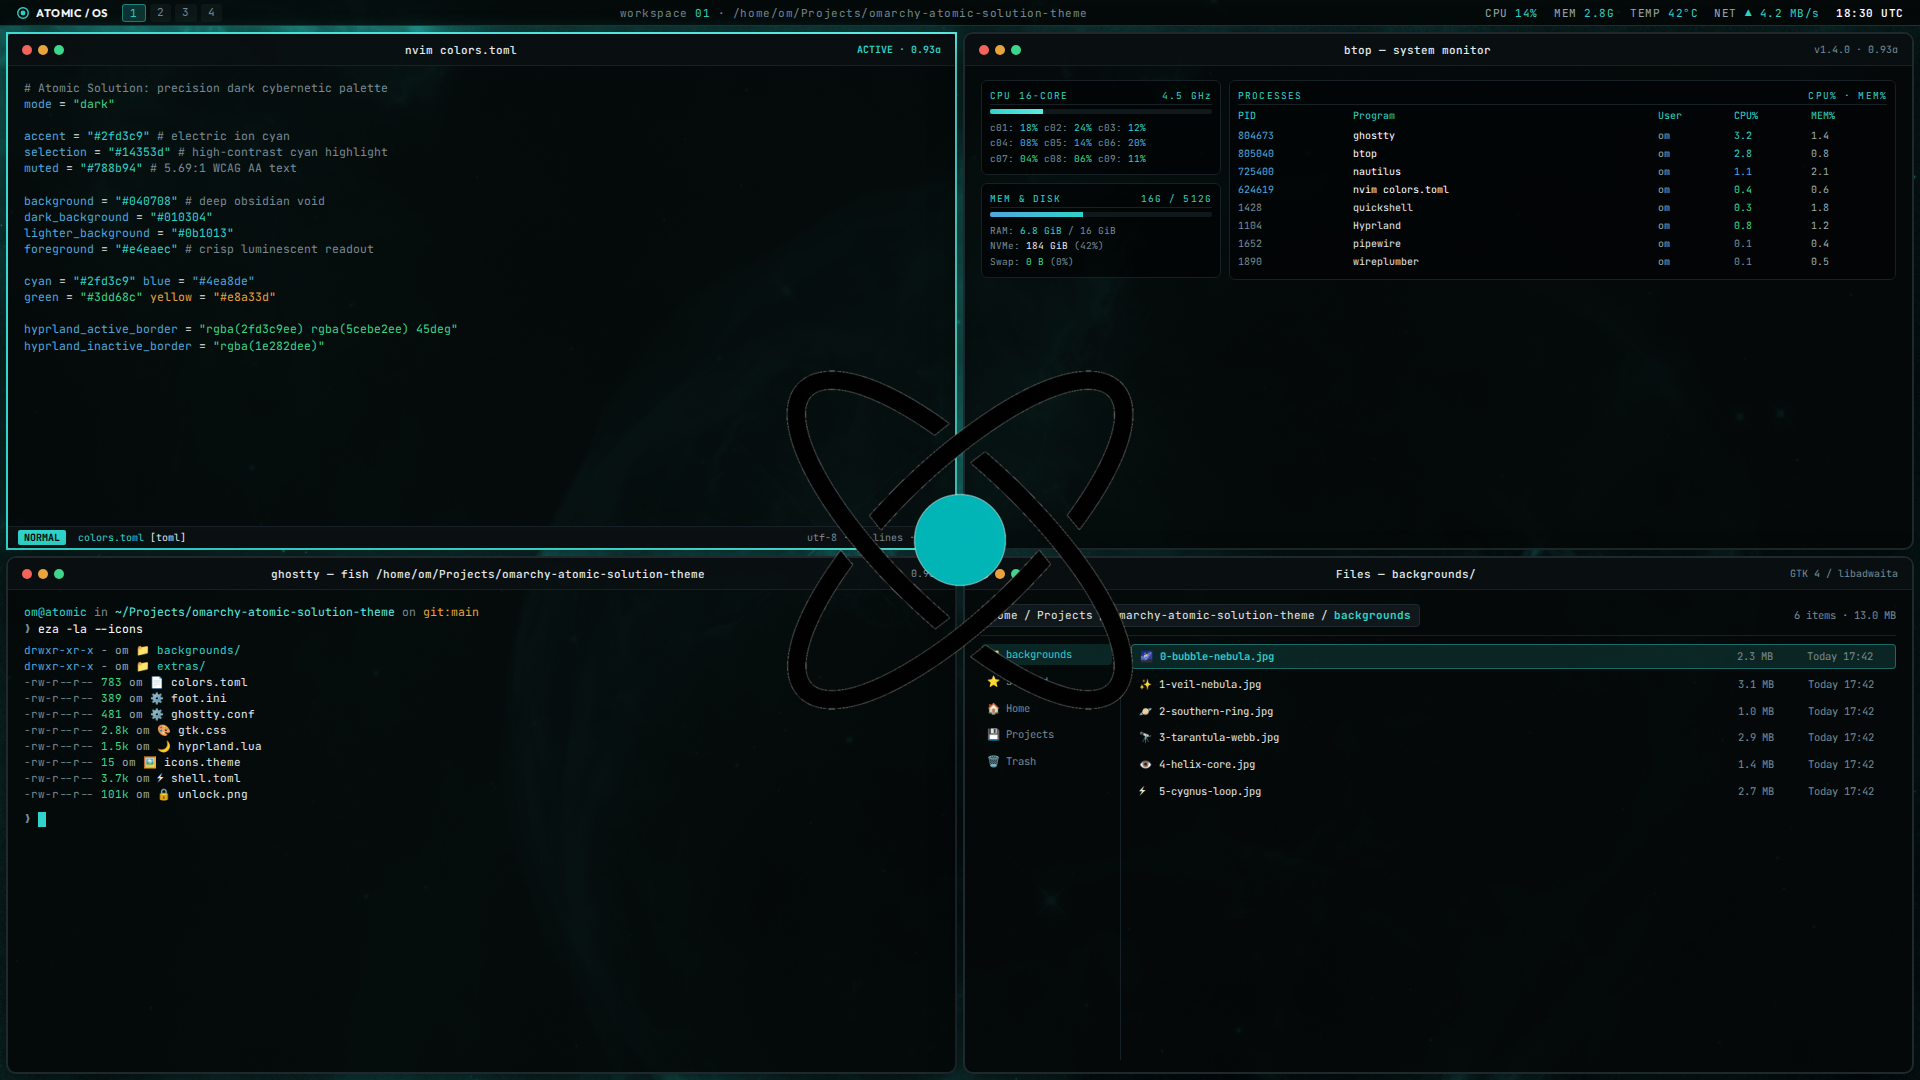
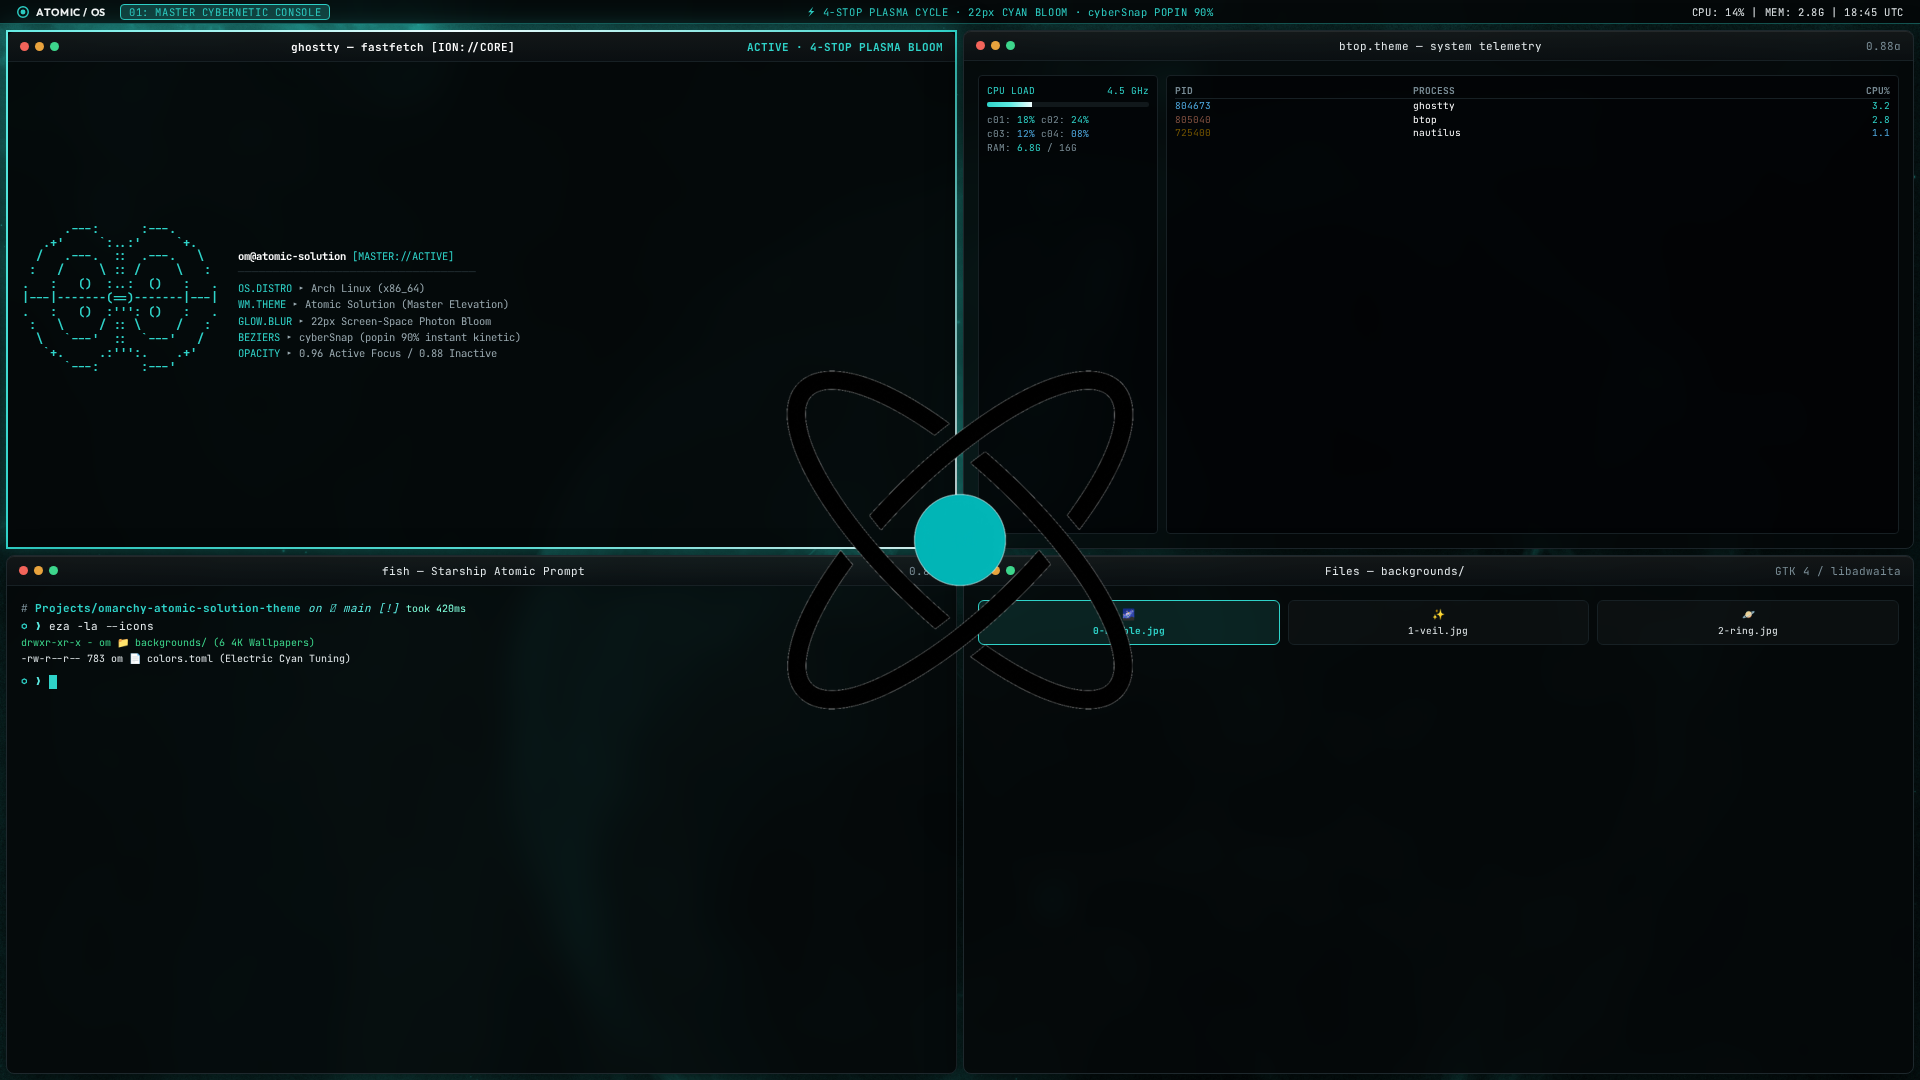
feat(v2): initial commit for Atomic Solution v2 (Kinetic Hologram Console)

diff --git a/README.md b/README.md
@@ -1,84 +1,50 @@
-# Atomic Solution Theme for Omarchy
+# Atomic Solution v2 (Kinetic Hologram Console) Theme for Omarchy
 
-A precision dark cybernetic [Omarchy](https://omarchy.org) theme built from and inspired by the [Atomic Solution](https://atomic-solution.com) masterpiece portfolio and atomicOS design system.
+The next evolution of the [Atomic Solution](https://atomic-solution.com) theme for [Omarchy](https://omarchy.org).
 
-Features deep obsidian void backgrounds (`#040708`), laser-sharp ion teal accents (`#2fd3c9`), quantum violet secondary highlights (`#878af8`), a 45° dynamic dual-stop active border gradient, and 0.93 window translucency allowing procedural 3D backgrounds to breathe through.
+Synthesized from bleeding-edge WebGL ion shaders and high-precision instrument consoles:
+- **Kinetic Hologram Pop:** Windows snap into place instantly via `cyberSnap` cubic-beziers (scaling from 90% dimension for HUD precision).
+- **Traveling Plasma Crest:** Continuous 4-stop active border rotation loop (`#2fd3c9` → `#5cebe2` → `#f0feff` → `#2fd3c9`).
+- **Screen-Space Photon Bloom:** 22px omnidirectional soft cyan bloom glow (`rgba(47, 211, 201, 0.28)`).
+- **Ion Core Fastfetch:** Custom ASCII atom core logo with system status telemetry.
+- **Dedicated `btop.theme`:** Precision cybernetic telemetry curve mapping CPU, RAM, and thermals to Atomic's signal thresholds.
+- **Starship Prompt Preset:** Diamond-status cybernetic terminal prompt.
+- **Dual Opacity Hierarchy:** 0.96 active window focus for maximum reading crispness, 0.88 inactive windows letting space nebulae breathe.
 
-![Atomic Solution preview](preview.png)
+![Atomic Solution v2 preview](preview.png)
 
 ## Install
 
 Requires Omarchy 4 (uses `hyprland.lua` and `shell.toml`).
 
 ```bash
-git clone https://github.com/redeye1011/omarchy-atomic-solution-theme ~/.local/share/omarchy-atomic-solution-theme
-ln -s ~/.local/share/omarchy-atomic-solution-theme ~/.config/omarchy/themes/atomic-solution
-omarchy theme set atomic-solution
+ln -s /home/om/Projects/omarchy-atomic-solution-v2-theme ~/.config/omarchy/themes/atomic-solution-v2
+omarchy theme set atomic-solution-v2
 ```
 
-Optional, for GTK apps such as Files (Nautilus):
+Optional, for GTK apps:
 
 ```bash
-omarchy hook install theme-set ~/.local/share/omarchy-atomic-solution-theme/extras/50-gtk-css
-omarchy theme set atomic-solution
-```
-
-Update with:
-
-```bash
-git -C ~/.local/share/omarchy-atomic-solution-theme pull && omarchy theme set atomic-solution
-```
-
-### Why not `omarchy theme install`?
-
-`omarchy theme install <url>` works, but Omarchy treats a cloned theme as untrusted and drops its `*.lua` files and terminal configs, regenerating them from `colors.toml`. You would keep the palette, borders, and translucent shell, but lose custom window rules and translucent terminals. A symlink to your own clone is trusted, so every file is kept.
-
-If you only want the palette, wallpaper, and shell:
-
-```bash
-omarchy theme install https://github.com/redeye1011/omarchy-atomic-solution-theme
+omarchy hook install theme-set ~/.config/omarchy/themes/atomic-solution-v2/extras/50-gtk-css
+omarchy theme set atomic-solution-v2
 ```
 
 ## What's included
 
 | File | What it does |
 |---|---|
-| `colors.toml` | Obsidian void palette with electric teal & quantum violet accents, plus 45° cyan-to-violet border gradient |
-| `hyprland.lua` | Dual-stop active border gradient, rounding 10, soft shadow, gaps 4/6, and window opacity rules |
-| `shell.toml` | Quickshell bar, launcher, menus, notifications, OSD, and tooltips at 0.93 opacity |
+| `colors.toml` | High-contrast electric cyan/teal palette with neutral slate framework |
+| `hyprland.lua` | `cyberSnap` kinetic beziers, 4-stop rotating plasma loop, 22px photon bloom glow, and 0.96/0.88 opacity |
+| `shell.toml` | Compact 24px aerospace telemetry status rail with 11px monospace base |
+| `btop.theme` | Dedicated Btop++ telemetry color curves (cyan plasma, thermal alerts) |
+| `extras/fastfetch.jsonc` | Fastfetch configuration with custom Ion Core ASCII art (`extras/atomic-core.txt`) |
+| `extras/starship.toml` | Starship terminal prompt preset with cyan diamond glyphs |
 | `ghostty.conf`, `foot.ini` | Native terminal color schemes with 0.93 background opacity |
-| `gtk.css` | GTK / libadwaita styling at 0.93 opacity (needs `extras/50-gtk-css`) |
+| `gtk.css` | GTK 3/4 and libadwaita styling at 0.93 opacity |
 | `icons.theme` | `Yaru-blue-dark` |
-| `backgrounds/` | 6 high-resolution (3840×2160) deep-space backgrounds tuned to the Atomic Solution palette |
+| `backgrounds/` | 6 4K UHD public-domain deep space nebula wallpapers |
 | `unlock.png`, `preview-unlock.png` | Atomic logo cut for boot-time disk unlock, SDDM, and Hyprlock |
-| `extras/50-gtk-css` | Theme-set hook that links the current theme's `gtk.css` into `~/.config/gtk-3.0/` and `~/.config/gtk-4.0/` |
 
-Btop, Neovim, Helix, Chromium, VS Code, Obsidian, and others are automatically generated by Omarchy from `colors.toml`.
+## License
 
-### Translucency
-
-Everything skinned sits at 0.93 opacity, with no blur:
-
-- Terminals, GTK apps, and shell surfaces are translucent through their own background alpha, so text stays crisp and solid.
-- Other apps get 0.93 under mouse focus and 0.84 unfocused via Hyprland window rules.
-- Browsers, video apps, and games keep Omarchy's near-opaque default, because transparency can break video acceleration and WebGL canvases.
-
-## Backgrounds
-
-Switchable instantly via the background switcher (`Super + Ctrl + Space`) or `omarchy theme bg next`:
-
-| File | Image Description | Source / License |
-|---|---|---|
-| `0-bubble-nebula.jpg` | The Bubble Nebula (NGC 7635) — Giant expanding stellar shell | NASA / ESA / Hubble (Public Domain) |
-| `1-veil-nebula.jpg` | The Veil Nebula (Cygnus Loop) — Filamentary supernova shockwave | NASA / ESA / Hubble (Public Domain) |
-| `2-southern-ring.jpg` | The Southern Ring Nebula (NGC 3132) — Concentric gas rings | NASA / ESA / CSA / STScI Webb NIRCam (Public Domain) |
-| `3-tarantula-webb.jpg` | The Tarantula Nebula (30 Doradus) — Cosmic particle nursery | NASA / ESA / CSA / STScI Webb (Public Domain) |
-| `4-helix-core.jpg` | The Helix Nebula (NGC 7293) — Cosmic ion core "Eye" | NASA / JPL-Caltech / GALEX (Public Domain) |
-| `5-cygnus-loop.jpg` | Cygnus Loop Shockwave — Complex quantum filament mesh | NASA / JPL Ultraviolet (Public Domain) |
-
-All space imagery from NASA/ESA/Hubble/Webb is in the public domain, precision-cropped to 3840×2160 (4K UHD), converted to grayscale, and gradient-mapped onto the Atomic Solution electric teal (`#2fd3c9`) and quantum violet (`#878af8`) color spectrum.
-
-## Credits & License
-
-- Configuration files and scripts: [MIT](LICENSE).
-- NASA / ESA / Hubble / Webb imagery: Public Domain under NASA and STScI guidelines.
+MIT License. Assets derived from Atomic Solution design system.
